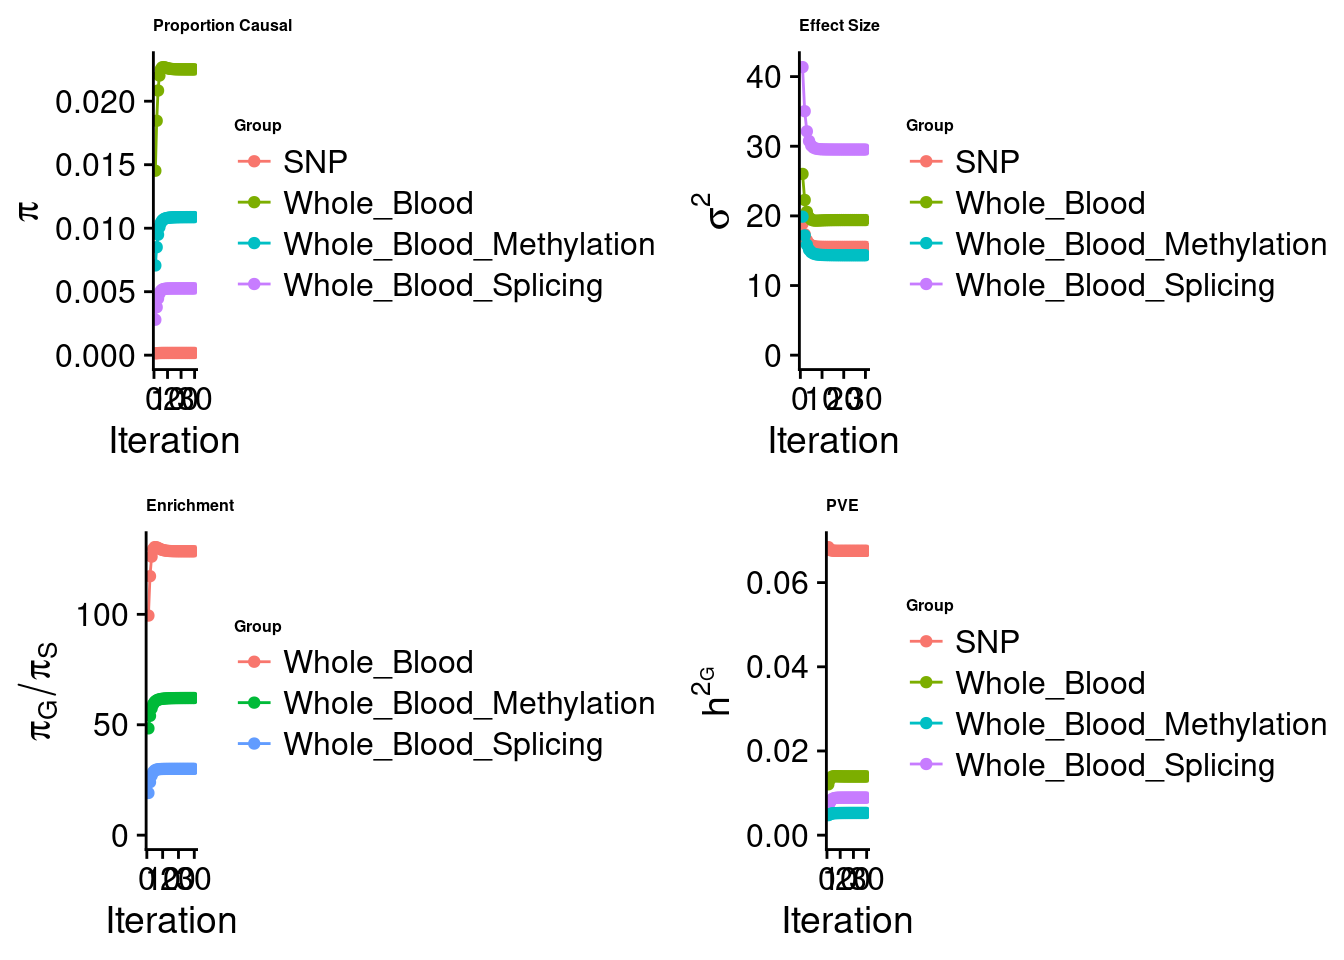
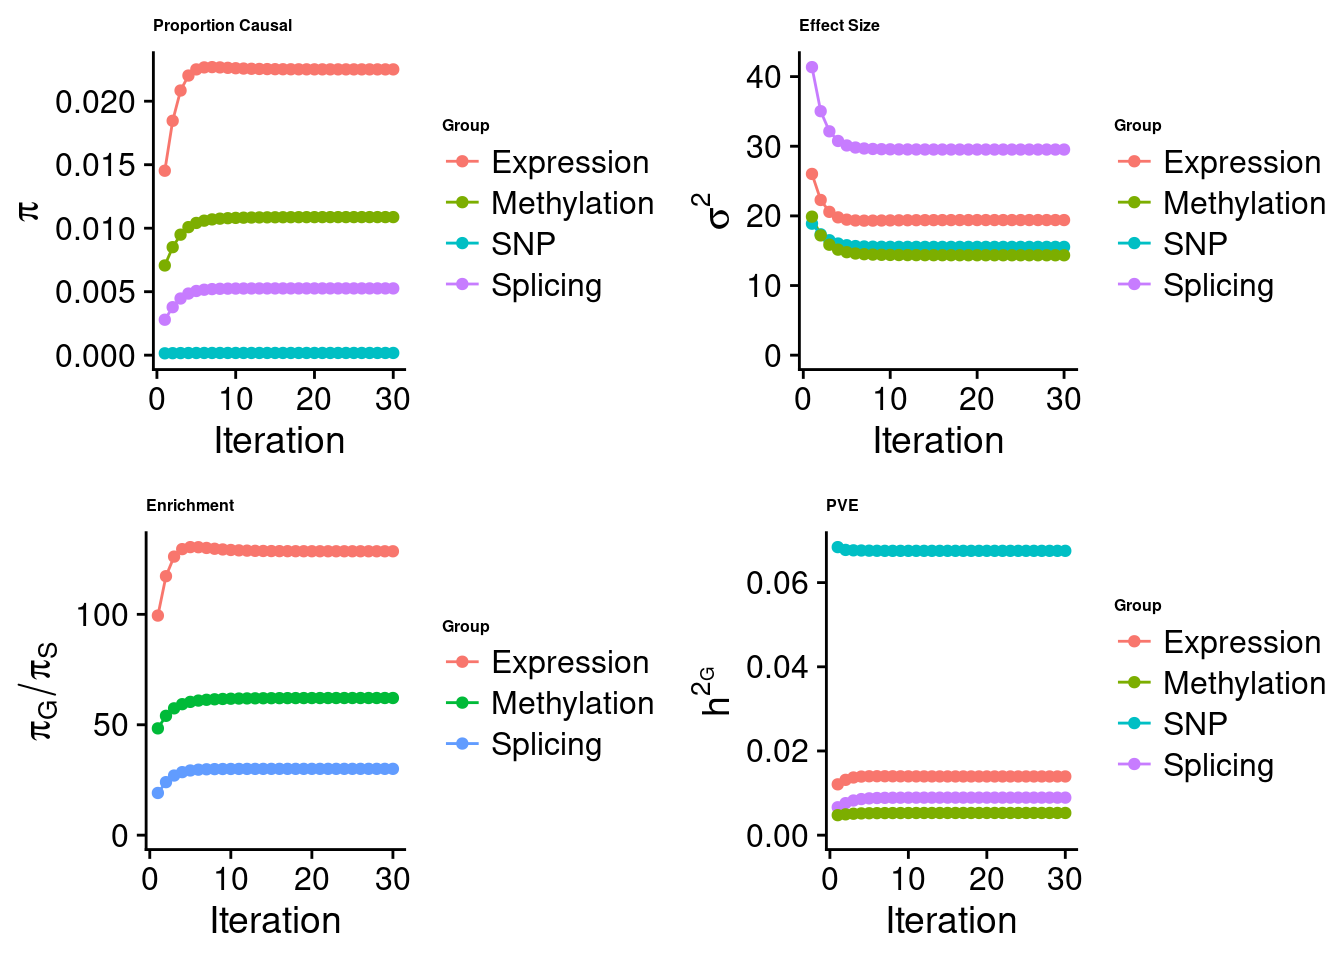
update

diff --git a/docs/WhiteBlood_WholeBlood_E_S_M.html b/docs/WhiteBlood_WholeBlood_E_S_M.html
@@ -410,7 +410,7 @@ This reproducible <a href="https://rmarkdown.rstudio.com">R Markdown</a> analysi
 </div>
 <div id="strongRMarkdownfilestronguncommittedchanges" class="panel-collapse collapse">
 <div class="panel-body">
-<p>The R Markdown file has unstaged changes. To know which version of the R Markdown file created these results, you’ll want to first commit it to the Git repo. If you’re still working on the analysis, you can ignore this warning. When you’re finished, you can run <code>wflow_publish</code> to commit the R Markdown file and build the HTML.</p>
+<p>The R Markdown file has staged changes. To know which version of the R Markdown file created these results, you’ll want to first commit it to the Git repo. If you’re still working on the analysis, you can ignore this warning. When you’re finished, you can run <code>wflow_publish</code> to commit the R Markdown file and build the HTML.</p>
 </div>
 </div>
 </div>
@@ -533,16 +533,16 @@ data/mqtl/WholeBlood.db
 <div class="panel panel-default">
 <div class="panel-heading">
 <p class="panel-title">
-<a data-toggle="collapse" data-parent="#workflowr-checks" href="#strongRepositoryversionstrongahrefhttpsgithubcomsq96cTWASanalysistreec5aaf9684518301926e8167b9fcf9276e3b3fc5ctargetblankc5aaf96a"> <span class="glyphicon glyphicon-ok text-success" aria-hidden="true"></span> <strong>Repository version:</strong> <a href="https://github.com/sq-96/cTWAS_analysis/tree/c5aaf9684518301926e8167b9fcf9276e3b3fc5c" target="_blank">c5aaf96</a> </a>
+<a data-toggle="collapse" data-parent="#workflowr-checks" href="#strongRepositoryversionstrongahrefhttpsgithubcomsq96cTWASanalysistreea76256830927919471e32c34075dde86f20eb5fftargetblanka762568a"> <span class="glyphicon glyphicon-ok text-success" aria-hidden="true"></span> <strong>Repository version:</strong> <a href="https://github.com/sq-96/cTWAS_analysis/tree/a76256830927919471e32c34075dde86f20eb5ff" target="_blank">a762568</a> </a>
 </p>
 </div>
[2 lines of base64/hex data omitted]
 <div class="panel-body">
 <p>
 Great! You are using Git for version control. Tracking code development and connecting the code version to the results is critical for reproducibility.
 </p>
 <p>
-The results in this page were generated with repository version <a href="https://github.com/sq-96/cTWAS_analysis/tree/c5aaf9684518301926e8167b9fcf9276e3b3fc5c" target="_blank">c5aaf96</a>. See the <em>Past versions</em> tab to see a history of the changes made to the R Markdown and HTML files.
+The results in this page were generated with repository version <a href="https://github.com/sq-96/cTWAS_analysis/tree/a76256830927919471e32c34075dde86f20eb5ff" target="_blank">a762568</a>. See the <em>Past versions</em> tab to see a history of the changes made to the R Markdown and HTML files.
 </p>
 <p>
 Note that you need to be careful to ensure that all relevant files for the analysis have been committed to Git prior to generating the results (you can use <code>wflow_publish</code> or <code>wflow_git_commit</code>). workflowr only checks the R Markdown file, but you know if there are other scripts or data files that it depends on. Below is the status of the Git repository when the results were generated:
@@ -660,6 +660,9 @@ Unstaged changes:
     Modified:   analysis/WhiteBlood_WholeBlood_E_S_M.Rmd
     Deleted:    code/run_IBD_ctwas_rss_LDR_ME.R
 
+Staged changes:
+    Modified:   analysis/WhiteBlood_WholeBlood_E_S_M.Rmd
+
 </code></pre>
 <p>
 Note that any generated files, e.g. HTML, png, CSS, etc., are not included in this status report because it is ok for generated content to have uncommitted changes.
@@ -697,6 +700,40 @@ Message
 </tr>
 </thead>
 <tbody>
+<tr>
+<td>
+Rmd
+</td>
+<td>
+<a href="https://github.com/sq-96/cTWAS_analysis/blob/a76256830927919471e32c34075dde86f20eb5ff/analysis/WhiteBlood_WholeBlood_E_S_M.Rmd" target="_blank">a762568</a>
+</td>
+<td>
+sq-96
+</td>
+<td>
+2023-02-02
+</td>
+<td>
+update
+</td>
+</tr>
+<tr>
+<td>
+html
+</td>
+<td>
+<a href="https://rawcdn.githack.com/sq-96/cTWAS_analysis/a76256830927919471e32c34075dde86f20eb5ff/docs/WhiteBlood_WholeBlood_E_S_M.html" target="_blank">a762568</a>
+</td>
+<td>
+sq-96
+</td>
+<td>
+2023-02-02
+</td>
+<td>
+update
+</td>
+</tr>
 <tr>
 <td>
 Rmd
@@ -768,7 +805,7 @@ options(digits = 4)</code></pre>
 </div>
 <div id="check-convergence-of-parameters" class="section level3">
 <h3>Check convergence of parameters</h3>
-<p><img src="figure/WhiteBlood_WholeBlood_E_S_M.Rmd/unnamed-chunk-3-1.png" width="672" style="display: block; margin: auto;" /></p>
+<p><img src="figure/WhiteBlood_WholeBlood_E_S_M.Rmd/unnamed-chunk-3-1.png" width="10%" style="display: block; margin: auto;" /></p>
 <p>
 <button type="button" class="btn btn-default btn-xs btn-workflowr btn-workflowr-fig" data-toggle="collapse" data-target="#fig-unnamed-chunk-3-1">
 Past versions of unnamed-chunk-3-1.png
@@ -791,6 +828,17 @@ Date
 </tr>
 </thead>
 <tbody>
+<tr>
+<td>
+<a href="https://github.com/sq-96/cTWAS_analysis/blob/a76256830927919471e32c34075dde86f20eb5ff/docs/figure/WhiteBlood_WholeBlood_E_S_M.Rmd/unnamed-chunk-3-1.png" target="_blank">a762568</a>
+</td>
+<td>
+sq-96
+</td>
+<td>
+2023-02-02
+</td>
+</tr>
 <tr>
 <td>
 <a href="https://github.com/sq-96/cTWAS_analysis/blob/c5aaf9684518301926e8167b9fcf9276e3b3fc5c/docs/figure/WhiteBlood_WholeBlood_E_S_M.Rmd/unnamed-chunk-3-1.png" target="_blank">c5aaf96</a>
@@ -1254,13 +1302,48 @@ head(df_gene[order(-df_gene$susie_pip),], max(sum(df_gene$susie_pip&gt;0.8), 20)
 <h2>GO enrichment analysis for genes with PIP&gt;0.5</h2>
 <pre class="r"><code>#number of genes for gene set enrichment
 length(genes)</code></pre>
-<pre><code>[1] 0</code></pre>
+<pre><code>[1] 47</code></pre>
+<pre><code>Uploading data to Enrichr... Done.
+  Querying GO_Biological_Process_2021... Done.
+  Querying GO_Cellular_Component_2021... Done.
+  Querying GO_Molecular_Function_2021... Done.
+Parsing results... Done.
+[1] &quot;GO_Biological_Process_2021&quot;</code></pre>
+<p><img src="figure/WhiteBlood_WholeBlood_E_S_M.Rmd/unnamed-chunk-13-1.png" width="672" style="display: block; margin: auto;" /></p>
+<pre><code>[1] Term             Overlap          Adjusted.P.value Genes           
+&lt;0 rows&gt; (or 0-length row.names)
+[1] &quot;GO_Cellular_Component_2021&quot;</code></pre>
+<p><img src="figure/WhiteBlood_WholeBlood_E_S_M.Rmd/unnamed-chunk-13-2.png" width="672" style="display: block; margin: auto;" /></p>
+<pre><code>[1] Term             Overlap          Adjusted.P.value Genes           
+&lt;0 rows&gt; (or 0-length row.names)
+[1] &quot;GO_Molecular_Function_2021&quot;</code></pre>
+<p><img src="figure/WhiteBlood_WholeBlood_E_S_M.Rmd/unnamed-chunk-13-3.png" width="672" style="display: block; margin: auto;" /></p>
+<pre><code>[1] Term             Overlap          Adjusted.P.value Genes           
+&lt;0 rows&gt; (or 0-length row.names)</code></pre>
 </div>
 <div id="disgenet-enrichment-analysis-for-genes-with-pip0.5" class="section level2">
 <h2>DisGeNET enrichment analysis for genes with PIP&gt;0.5</h2>
+<pre><code>                   Description     FDR Ratio  BgRatio
+1           Abortion, Habitual 0.04948  1/28   2/9703
+10         Atrial Fibrillation 0.04948  3/28 160/9703
+37      Dysautonomia, Familial 0.04948  1/28   3/9703
+41                    Freckles 0.04948  1/28   1/9703
+53                   Melanosis 0.04948  1/28   1/9703
+54                    Chloasma 0.04948  1/28   1/9703
+68            Reflex, Abnormal 0.04948  1/28   5/9703
+83     Ataxia, Spinocerebellar 0.04948  2/28  34/9703
+85 Intermittent joint effusion 0.04948  1/28   2/9703
+86  Reflex, Corneal, Decreased 0.04948  1/28   5/9703</code></pre>
 </div>
 <div id="webgestalt-enrichment-analysis-for-genes-with-pip0.5" class="section level2">
 <h2>WebGestalt enrichment analysis for genes with PIP&gt;0.5</h2>
+<pre><code>Loading the functional categories...
+Loading the ID list...
+Loading the reference list...
+Performing the enrichment analysis...</code></pre>
+<pre><code>Warning in oraEnrichment(interestGeneList, referenceGeneList, geneSet, minNum =
+minNum, : No significant gene set is identified based on FDR 0.05!</code></pre>
+<pre><code>NULL</code></pre>
 <br>
 <p>
 <button type="button" class="btn btn-default btn-workflowr btn-workflowr-sessioninfo" data-toggle="collapse" data-target="#workflowr-sessioninfo" style="display: block;">
@@ -1288,24 +1371,31 @@ attached base packages:
 [1] stats     graphics  grDevices utils     datasets  methods   base     
 
 other attached packages:
-[1] enrichR_3.1     cowplot_1.1.1   ggplot2_3.4.0   workflowr_1.7.0
+[1] WebGestaltR_0.4.4 disgenet2r_0.99.2 enrichR_3.1       cowplot_1.1.1    
+[5] ggplot2_3.4.0     workflowr_1.7.0  
 
 loaded via a namespace (and not attached):
- [1] tidyselect_1.2.0  xfun_0.35         bslib_0.4.1       colorspace_2.0-3 
- [5] vctrs_0.5.1       generics_0.1.3    htmltools_0.5.4   yaml_2.3.6       
- [9] utf8_1.2.2        rlang_1.0.6       jquerylib_0.1.4   later_1.3.0      
-[13] pillar_1.8.1      glue_1.6.2        withr_2.5.0       DBI_1.1.3        
-[17] lifecycle_1.0.3   stringr_1.5.0     munsell_0.5.0     gtable_0.3.1     
-[21] evaluate_0.19     labeling_0.4.2    knitr_1.41        callr_3.7.3      
-[25] fastmap_1.1.0     httpuv_1.6.7      ps_1.7.2          curl_4.3.2       
-[29] fansi_1.0.3       highr_0.9         Rcpp_1.0.9        promises_1.2.0.1 
-[33] scales_1.2.1      cachem_1.0.6      jsonlite_1.8.4    farver_2.1.0     
-[37] fs_1.5.2          rjson_0.2.21      digest_0.6.31     stringi_1.7.8    
-[41] processx_3.8.0    dplyr_1.0.10      getPass_0.2-2     rprojroot_2.0.3  
-[45] grid_4.1.0        cli_3.4.1         tools_4.1.0       magrittr_2.0.3   
-[49] sass_0.4.4        tibble_3.1.8      whisker_0.4.1     pkgconfig_2.0.3  
-[53] data.table_1.14.6 assertthat_0.2.1  rmarkdown_2.19    httr_1.4.4       
-[57] rstudioapi_0.14   R6_2.5.1          git2r_0.30.1      compiler_4.1.0   </code></pre>
+ [1] httr_1.4.4        sass_0.4.4        bit64_4.0.5       vroom_1.6.0      
+ [5] jsonlite_1.8.4    foreach_1.5.2     bslib_0.4.1       assertthat_0.2.1 
+ [9] getPass_0.2-2     highr_0.9         doRNG_1.8.2       yaml_2.3.6       
+[13] pillar_1.8.1      lattice_0.20-44   glue_1.6.2        digest_0.6.31    
+[17] promises_1.2.0.1  colorspace_2.0-3  htmltools_0.5.4   httpuv_1.6.7     
+[21] Matrix_1.3-3      plyr_1.8.8        pkgconfig_2.0.3   scales_1.2.1     
+[25] processx_3.8.0    svglite_2.1.0     whisker_0.4.1     later_1.3.0      
+[29] tzdb_0.3.0        git2r_0.30.1      tibble_3.1.8      generics_0.1.3   
+[33] farver_2.1.0      ellipsis_0.3.2    cachem_1.0.6      withr_2.5.0      
+[37] cli_3.4.1         crayon_1.5.2      magrittr_2.0.3    evaluate_0.19    
+[41] ps_1.7.2          apcluster_1.4.10  fs_1.5.2          fansi_1.0.3      
+[45] doParallel_1.0.17 tools_4.1.0       data.table_1.14.6 hms_1.1.2        
+[49] lifecycle_1.0.3   stringr_1.5.0     munsell_0.5.0     rngtools_1.5.2   
+[53] callr_3.7.3       compiler_4.1.0    jquerylib_0.1.4   systemfonts_1.0.4
+[57] rlang_1.0.6       grid_4.1.0        iterators_1.0.14  rstudioapi_0.14  
+[61] rjson_0.2.21      igraph_1.3.5      labeling_0.4.2    rmarkdown_2.19   
+[65] gtable_0.3.1      codetools_0.2-18  DBI_1.1.3         curl_4.3.2       
+[69] reshape2_1.4.4    R6_2.5.1          knitr_1.41        dplyr_1.0.10     
+[73] bit_4.0.5         fastmap_1.1.0     utf8_1.2.2        rprojroot_2.0.3  
+[77] readr_2.1.3       stringi_1.7.8     parallel_4.1.0    Rcpp_1.0.9       
+[81] vctrs_0.5.1       tidyselect_1.2.0  xfun_0.35        </code></pre>
 </div>
 </div>
 
